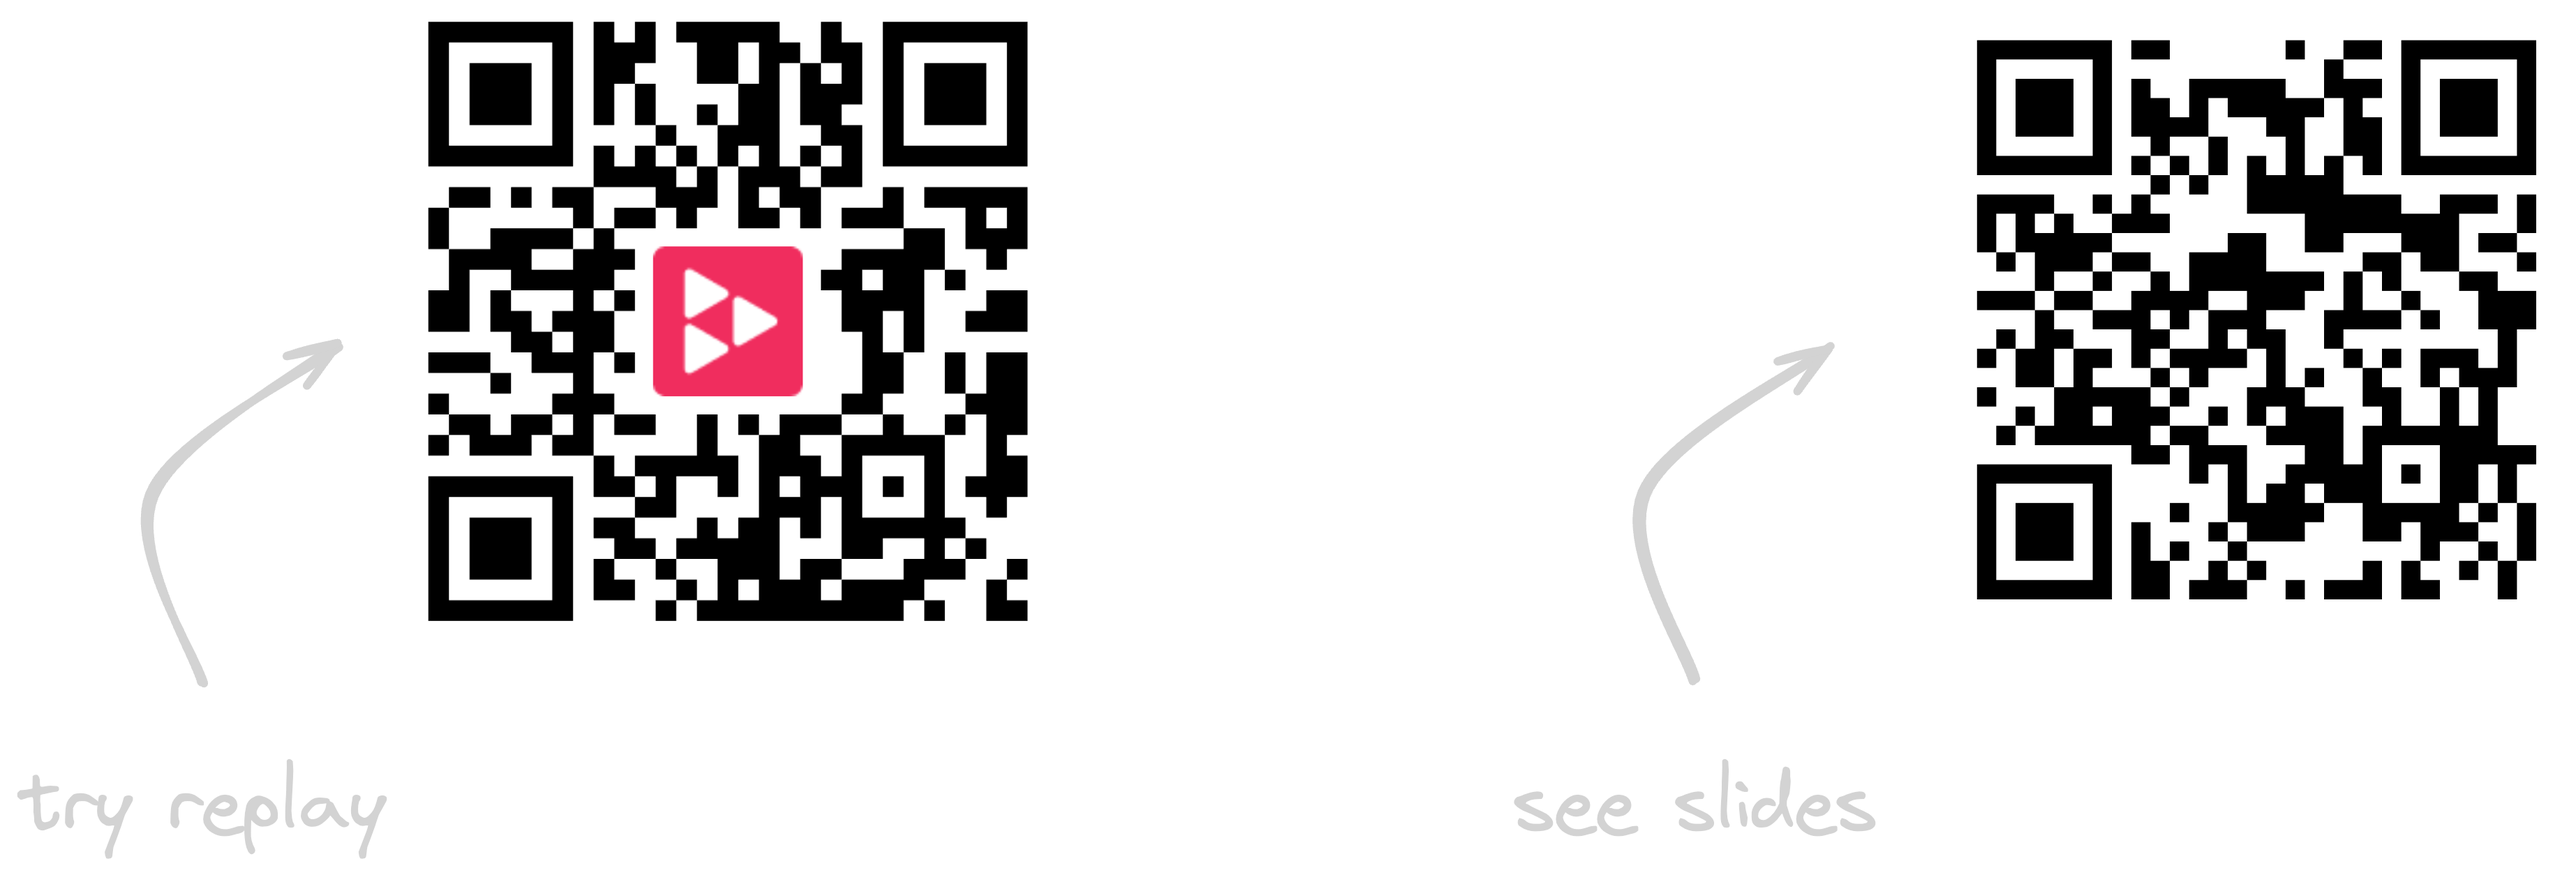
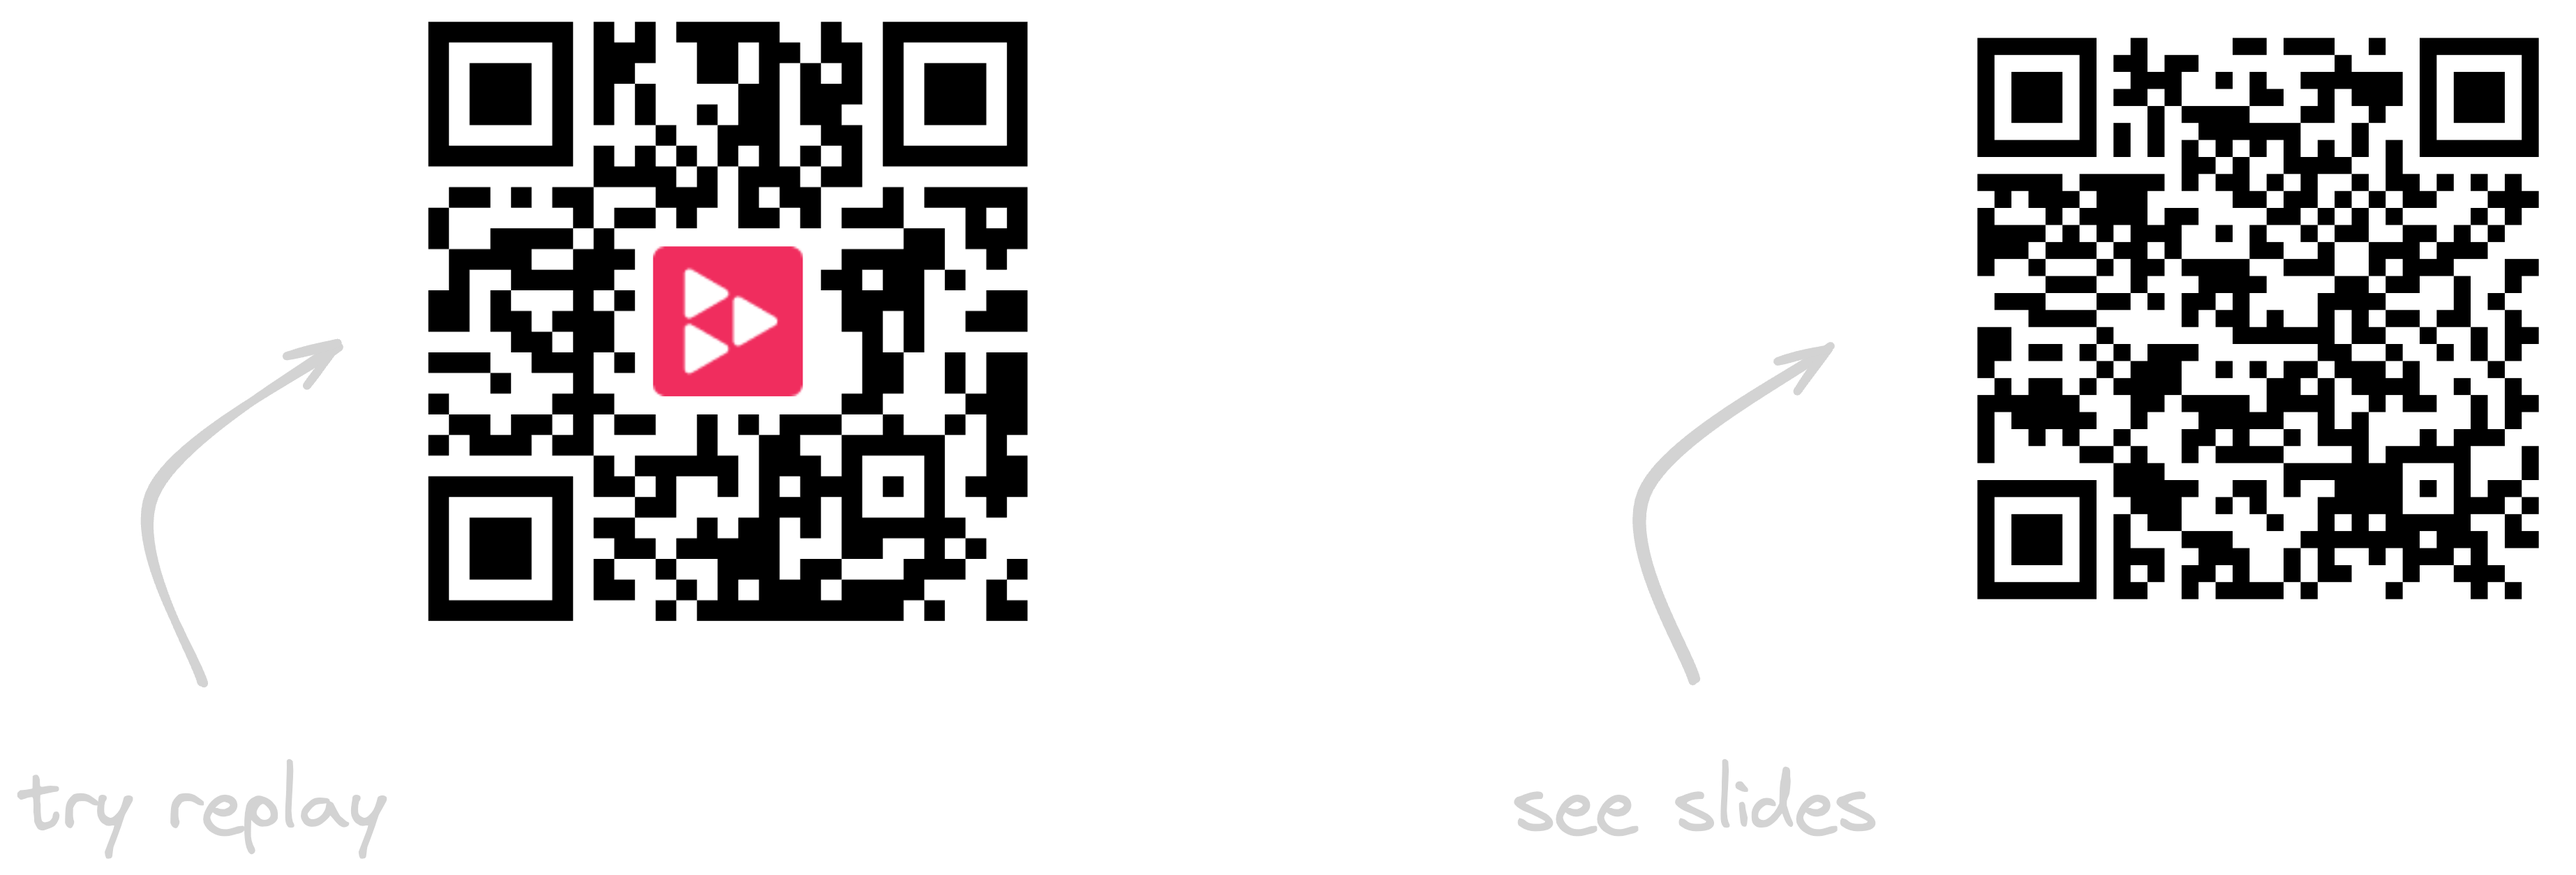
last minute updates

Changed region(s): [[0.7478, 0.0311, 0.997, 0.6842]]

diff --git a/global-top.vue b/global-top.vue
@@ -3,7 +3,7 @@
     <div class="abs-br m-2 flex w-full justify-between">
       <div class="flex-place-self-center">
         <a class="opacity-30 ml-6 text-sm" href="https://filiphric.com/jsheroes">
-          <bx-slideshow class="mr-1"/> filiphric.com/devtalks
+          <bx-slideshow class="mr-1"/> filiphric.com/jsheroes
         </a>
       </div>
       <div>

diff --git a/style.css b/style.css
@@ -1,0 +1,4 @@
+.slidev-note {
+  font-family: Verdana, Geneva, Tahoma, sans-serif;
+  font-size: 1.7rem !important;
+}

diff --git a/pages/01_flakiness.md b/pages/01_flakiness.md
@@ -25,7 +25,8 @@ layout: default
 <!--
 - but let’s stop at this little guy
 - because as I said, we have some great tools nowadays
-- but they all seem to be battling for speed of execution
+- but they all seem to focusing on one problem
+- speed of execution
 - I have read countless blog posts comparing pw and cy or some other tools
 - they are focusing on execution
 -->
@@ -84,14 +85,15 @@ layout: default
 ---
 layout: center
 ---
+
 # Where do test flakes come from?
 
-<!-- 
-- first of all, definition
+<!--
+- let’s define flakiness
 - a test that gives failing and passing result across multiple runs without any known changes in test code or app code
 - and some people will say, that the biggest contributor to test flakiness is the environment on which the test is ran
 - but I actually don’t agree
-- I think different environments only reveal the issues that were already there
+- I think different environments only **reveal** the issues that were already there
 - and I have an argument to back it up
 -->
 
@@ -120,11 +122,12 @@ when the environment <span v-mark="{type: 'box', color: '#41B0F6', at: 0}">is fa
 ---
 layout: center
 ---
+
 # Our testing tools are <span v-mark="{type: 'crossed-off', color: '#F02D5E', at: 1, strokeWidth: 4}">flaky</span>!
 
-<!-- 
+<!--
 - no they are not [click]
-- everybody migrating from PW -> Cypress
+- everybody migrating from PW -> Cypress - anyone?
 - I have some bad news, it’s not going to fix your tests
 - don’t get me wrong, PW is great, you should use it, but it’s not going to solve flakiness
 -->
@@ -136,10 +139,12 @@ layout: center
 ![](/images/cory.png){class="w-140"}
 
 <!--
+- because: as mentioned in this tweet
+- flaky app will result in flaky test
 - I actually believe quite strongly, that although we often talk about flaky tests, it’s actually the application that’s flaky
-- as mentioned in this tweet
-- but tools can help - actually a lot
+- but tools **can** help - actually a lot
 - one of the ways to tackle flaky apps is retryability
+- e.g cypress and playwright have this
 -->
 
 ---
@@ -175,7 +180,7 @@ What happens in <span v-mark="{type: 'strike-through', color: '#F02D5E', at: 1, 
 -->
 
 ---
-layout: two-cols
+layout: default
 ---
 # e2e flakiness
 

diff --git a/pages/03_metabase_visualization.md b/pages/03_metabase_visualization.md
@@ -1,13 +1,13 @@
 ---
 layout: cover
 ---
+
 Story #2:
 # Metabase - Visualization
 
 <!--
-- this one was test flake that inspired the name of this presentation
-- blink and you’ll miss it
-- in fact, I’m going to show you a screenshot from failing and passing test side by side
+- this is a fun one
+- I’m going to show you a screenshot from failing and passing test side by side
 -->
 
 ---
@@ -113,9 +113,9 @@ layout: default
 # Metabase - Visualization
 <video src="/images/shift.mov" autoplay loop class="h-[80%] m-auto" />
 
-<!-- 
+<!--
 - going back to the video comparison
-- we can see why the test did not work the way we wanted
-- the css change caused the whole layout to shift
-- so the cypress commands that relied on precise coordinates on page were selecting something different after we used bolder fonts
+- see how the blue rectangle stays in same place, but graph shifts
+- cypress commands relied on precise coordinates 
+- selected something different
 -->

diff --git a/slides.md b/slides.md
@@ -16,13 +16,6 @@ themeConfig:
 &nbsp;
 # unf**king your tests
 
-<!--
-- I teach developers about testing and testers about web development
-- this is a family-friendly presentation
-- I work at dev relations for company called replay where we build time travelling browser
-- before we start, I want to do a short poll, but I’ll do it a littlebit differently
--->
-
 <style>
   p {
     font-size: 1px;
@@ -31,6 +24,13 @@ themeConfig:
     line-height: 0px !important;
   }
 </style>
+
+<!--
+- I teach developers about testing and testers about web development
+- this is a family-friendly presentation
+- I work at dev relations for company called replay where we build time travelling browser
+- before we start, I want to do a short poll, but I’ll do it a littlebit differently
+-->
 
 ---
 src: pages/00_prompts.md

diff --git a/pages/02_metabase_network_throttle.md b/pages/02_metabase_network_throttle.md
@@ -128,14 +128,26 @@ layout: center
 ---
 
 # Recording CI:
-cypress:
+<br />
+
+<vscode-icons-file-type-cypress/> cypress:
 ```
 npx cypress run --browser replay-chromium
 ```
-playwright:
+
+<br />
+
+<vscode-icons-file-type-playwright/> playwright:
 ```
 npx playwright test --project replay-chromium
 ```
+
+also supported:
+<logos-webdriverio class="mx-2"/>
+<logos-selenium class="mx-2"/>
+<logos-puppeteer class="mx-2"/>
+<logos-jest class="mx-2"/>
+
 
 <!--
 - this was largely thanks to the fact that we were able to time-travel to that line of code

diff --git a/pages/07_ending.md b/pages/07_ending.md
@@ -8,4 +8,5 @@ layout: default
 
 <!-- 
 - I brought some merch if you want to try Replay
+- I’ll be hanging out here, happy to talk about flaky tests, don’t be shy, reach out
 -->

diff --git a/pages/05_false_positive.md b/pages/05_false_positive.md
@@ -26,6 +26,7 @@ it('Checks accessibility of a page', () => {
 ```
 
 <!-- 
+- accessibility - Daniel Rizea mentioned this in the morning
 - show code, then go to demo
 -->
 
